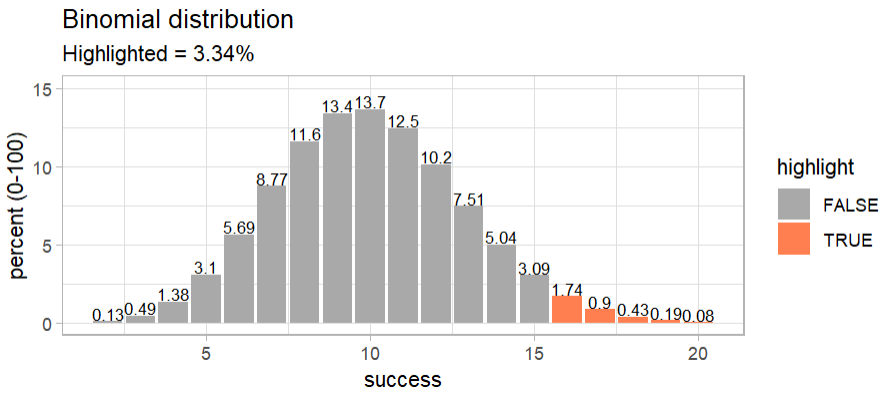
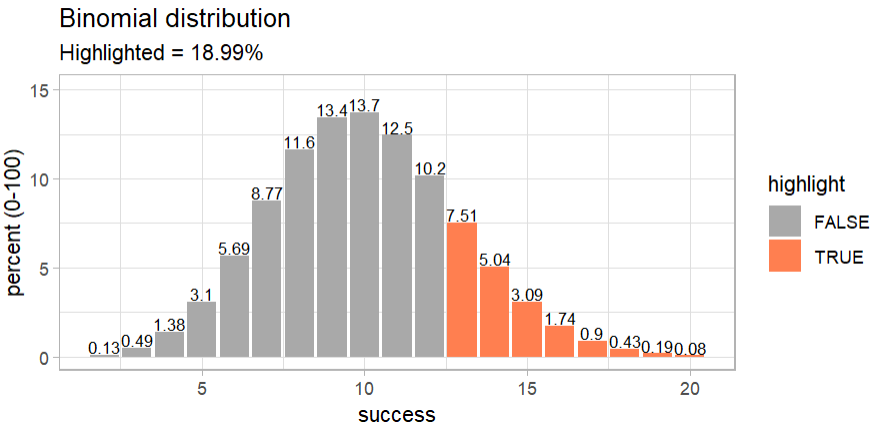
update figures in README

diff --git a/README.md b/README.md
@@ -45,21 +45,23 @@ Let's roll 60 dice:
 # load packages
 library(tidydice)
 
-# roll 60 dice (6 x 10 dice = 60)
+# roll 60 dice (10 x 6 dice = 60)
 roll_dice(times = 10, rounds = 6) |> 
-  plot(dice, fill_success = "gold")
+  plot(dice)
 ```
 
 <img src="man/figures/tidydice-roll-dice-60.png" alt="Roll 60 dice" width="600">
 
-We got 12 six. Is this unlikely? Would 15 or more six be unusual? Let's check using the binomial ditribution:
+We got 13 six. Is this unlikely? The expected value is 10 (60 dice / 6 sides = 10).  So 13 is more than expected, is it a sign of cheating? Let's check using the binomial ditribution:
 
 ```r
 # binomial distribution
 binom_dice(times = 60) |> 
-  plot_binom(highlight = c(16:60), color_highlight = "coral")
+  plot_binom(highlight = c(13:60))
 ```
 <img src="man/figures/tidydice-binom-dice-60.png" alt="Binomial distribution" width="600"/>
+
+The binomial distribution shows, that there is a 19% chance that you can get 13 or more six using a fair dice.
 
 ## Roll dice
 

diff --git a/NEWS.md b/NEWS.md
@@ -1,4 +1,4 @@
-## tidydice 1.0.0 (2022-01-30)
+## tidydice 1.0.0 (2022-02-01)
 
 * add roll_dice_formula()
 * fix help plot_binom()
